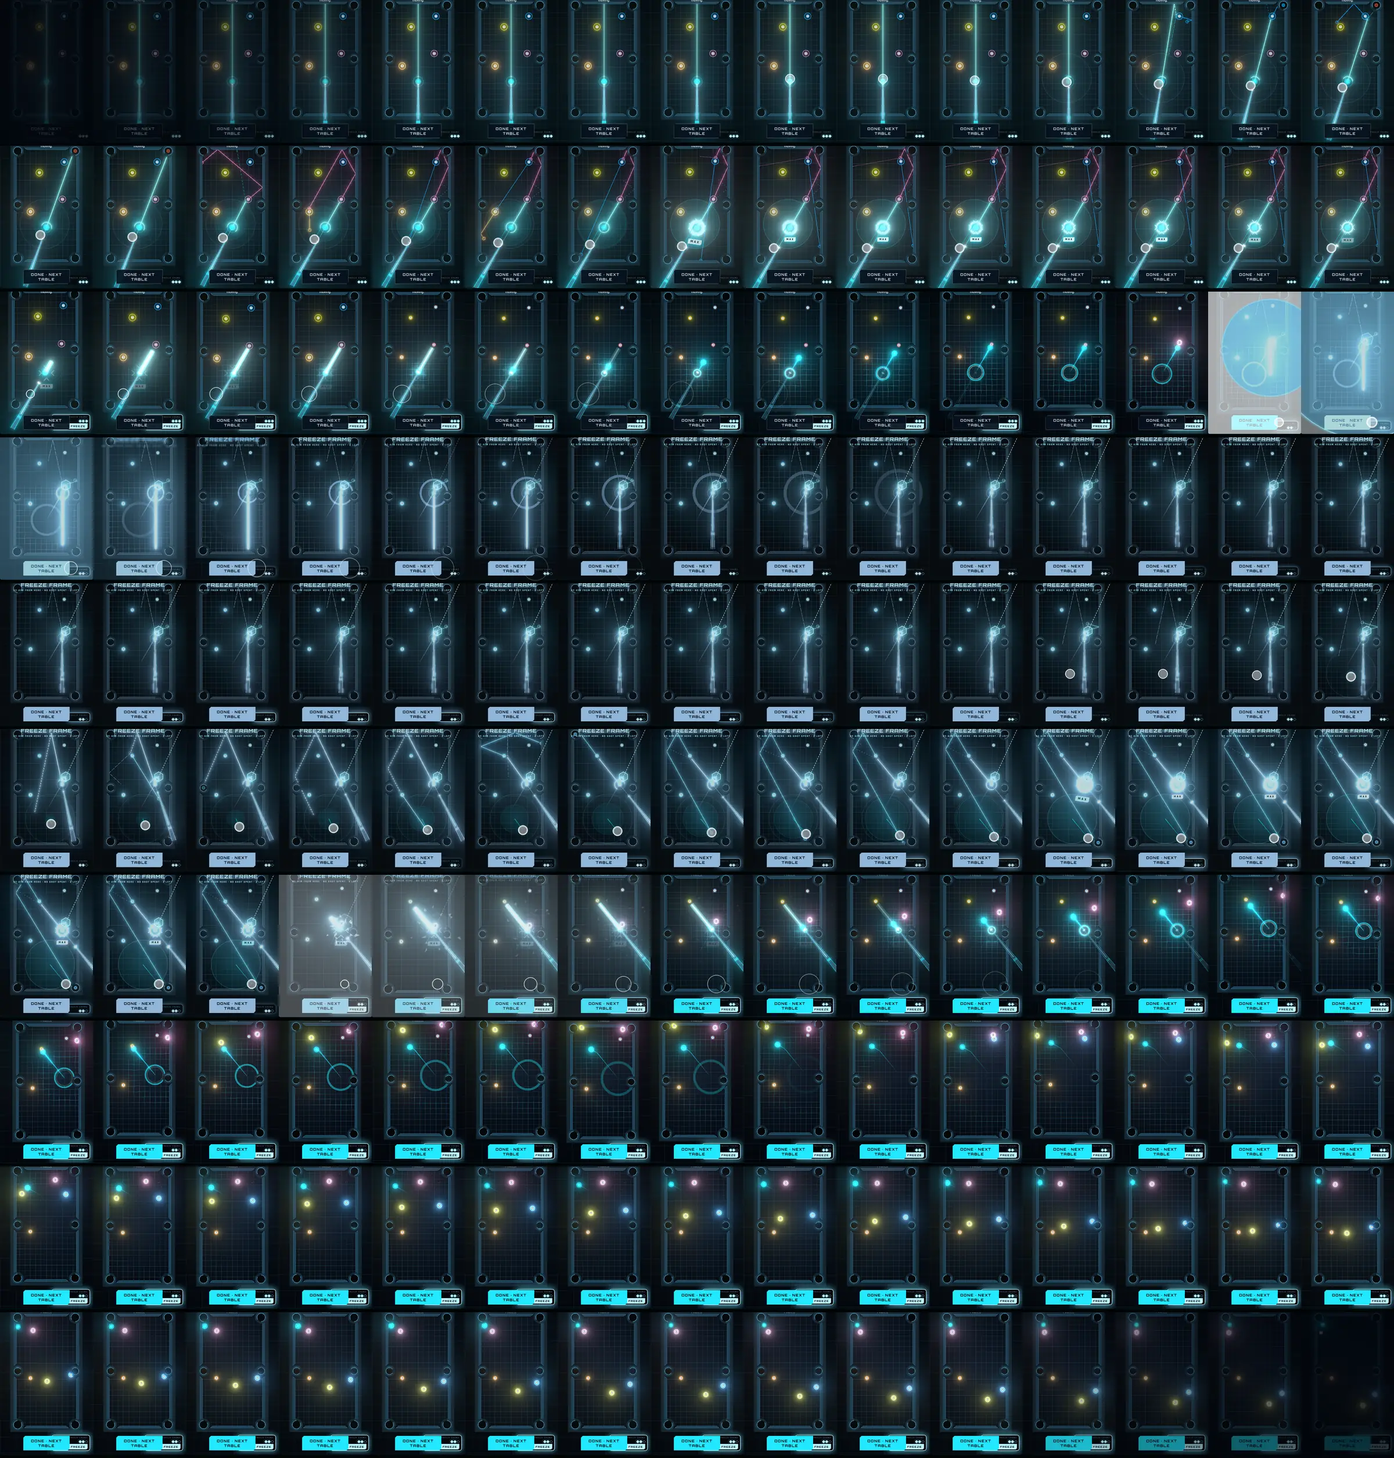
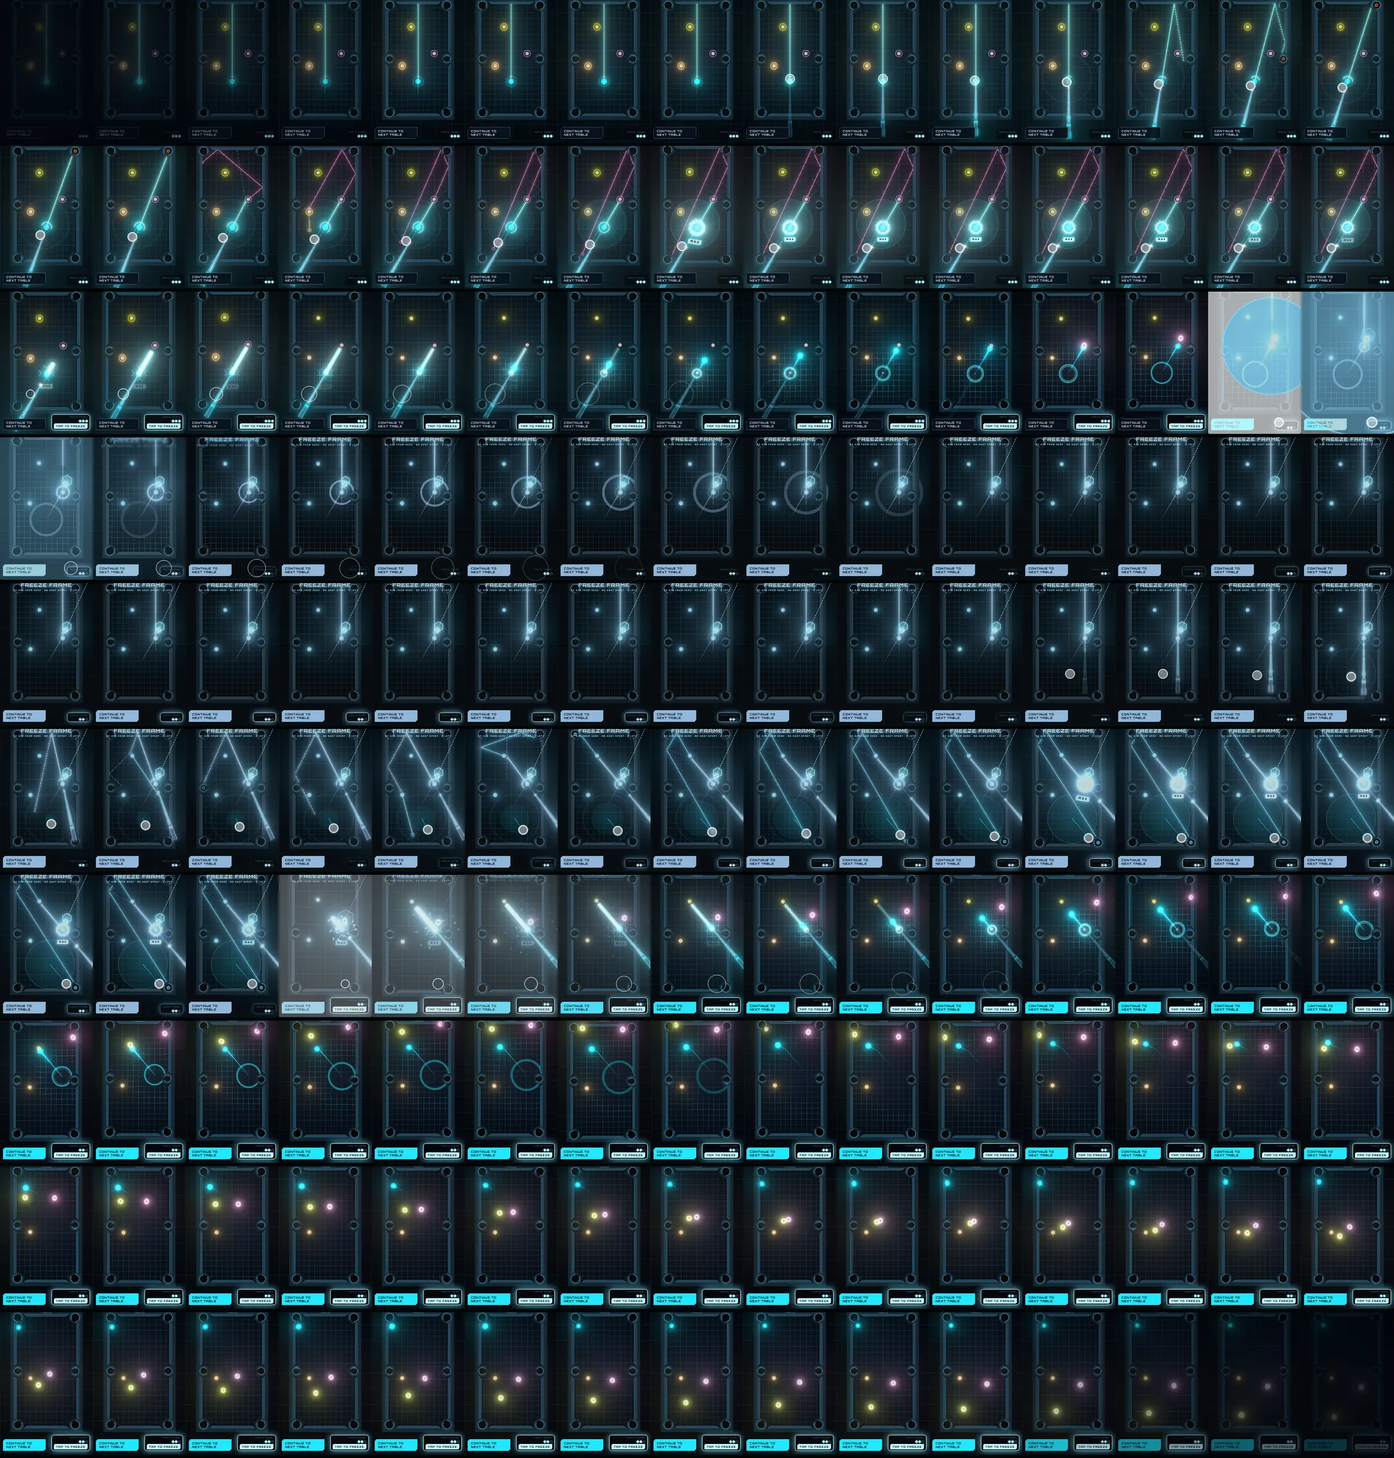
Review round 32: softer shake and no slam shake; the freeze charge pops like a sticker; the stick shows only under the thumb; one teach card and a three-ball practice with Continue clear of FREEZE
Claude-Session: https://claude.ai/code/session_019nZiiKef9e6Jh7cCYCt7Qn

diff --git a/index.html b/index.html
@@ -301,7 +301,7 @@
       .practice-title { font-family: var(--font-display); font-size: clamp(10px, 2.8vmin, 13px); font-weight: 700; letter-spacing: 0.22em; text-transform: uppercase; color: #bff4ff; }
       .practice-line { margin-top: 6px; font-size: clamp(13px, 3.9vmin, 16px); font-weight: 600; line-height: 1.3; color: var(--bone); text-shadow: 0 1px 8px rgba(0, 0, 0, 0.8); }
       .practice-count { margin-top: 4px; min-height: 1.2em; font-size: clamp(9px, 2.4vmin, 11px); letter-spacing: 0.2em; text-transform: uppercase; color: rgba(191, 244, 255, 0.75); }
-      .practice-done { position: absolute; left: 50%; bottom: calc(var(--hud-pad) + 4px); transform: translateX(-50%); pointer-events: auto; padding: 12px 22px 10px; border: 0; font-family: var(--font-display); font-size: clamp(13px, 3.8vmin, 16px); font-weight: 700; letter-spacing: 0.14em; text-transform: uppercase; color: rgba(234, 246, 255, 0.85); background: rgba(8, 18, 30, 0.92); box-shadow: inset 0 0 0 1.5px rgba(234, 246, 255, 0.35); cursor: pointer; clip-path: polygon(8px 0, 100% 0, 100% calc(100% - 8px), calc(100% - 8px) 100%, 0 100%, 0 8px); }
+      .practice-done { position: absolute; left: var(--hud-pad); bottom: calc(var(--hud-pad) + 2px); max-width: 46%; pointer-events: auto; padding: 10px 14px 9px; border: 0; font-family: var(--font-display); font-size: clamp(11px, 3.1vmin, 13px); line-height: 1.25; text-align: left; font-weight: 700; letter-spacing: 0.1em; text-transform: uppercase; color: rgba(234, 246, 255, 0.85); background: rgba(8, 18, 30, 0.92); box-shadow: inset 0 0 0 1.5px rgba(234, 246, 255, 0.35); cursor: pointer; clip-path: polygon(8px 0, 100% 0, 100% calc(100% - 8px), calc(100% - 8px) 100%, 0 100%, 0 8px); }
       .practice-done.ready { color: #02050b; background: var(--ll-you, #22e8ff); box-shadow: 0 0 22px rgba(34, 232, 255, 0.45); }
       .mo-intro-go { display: block; width: 100%; margin-top: 20px; padding: 14px 12px 12px; border: 0; font-family: var(--font-display); font-size: clamp(15px, 4.6vmin, 19px); font-weight: 700; letter-spacing: 0.16em; text-transform: uppercase; color: #02050b; background: var(--ll-you, #22e8ff); box-shadow: 0 0 22px rgba(34, 232, 255, 0.45); cursor: pointer; clip-path: polygon(8px 0, 100% 0, 100% calc(100% - 8px), calc(100% - 8px) 100%, 0 100%, 0 8px); }
       .moments > .mo-intro-fly { position: absolute; inset: auto; margin: 0; z-index: 49; pointer-events: none; }
@@ -572,7 +572,17 @@
       @keyframes freeze-armed { 50% { box-shadow: inset 0 0 0 2px #bff4ff, 0 0 34px rgba(111, 227, 255, 0.95); } }
       /* a diamond a gain just filled */
       .freeze-row .frz.fresh { animation: frz-fresh 0.9s cubic-bezier(0.2, 0.8, 0.2, 1); }
-      @keyframes frz-fresh { 0% { transform: rotate(45deg) scale(2.2); background: #fff; box-shadow: 0 0 20px #bff4ff; } 100% { transform: rotate(45deg) scale(1); } }
+      /* the new diamond pops like a sticker (from review, after Ultrapool) */
+      .freeze-row .frz.fresh { animation-duration: 0.62s; animation-timing-function: linear; }
+      @keyframes frz-fresh {
+        0% { transform: rotate(35deg) scale(0.05); background: #fff; box-shadow: 0 0 20px #bff4ff; }
+        18% { transform: rotate(53deg) scale(1.2); }
+        34% { transform: rotate(38deg) scale(1.9); background: #fff; box-shadow: 0 0 22px #bff4ff; }
+        50% { transform: rotate(50deg) scale(0.9); }
+        66% { transform: rotate(42deg) scale(1.15); }
+        82% { transform: rotate(46.5deg) scale(0.98); }
+        100% { transform: rotate(45deg) scale(1); }
+      }
       @media (prefers-reduced-motion: reduce) { .hud-freeze.armed, .freeze-row .frz.fresh { animation: none; } }
 
       .freeze-row { display: flex; gap: 5px; }
@@ -1351,7 +1361,8 @@
       .mo-skiphide { visibility: hidden !important; }
       .mo-skipfx { position: absolute; inset: auto; z-index: 46; font-family: var(--font-display); font-size: 120px; font-weight: 800; line-height: 1; color: var(--ll-you); text-shadow: 0 0 24px rgba(34, 232, 255, 0.9); pointer-events: none; }
       .mo-act.skip { color: var(--ll-you); background: rgba(2, 5, 11, 0.85); box-shadow: inset 0 0 0 2px var(--ll-you); font-size: 14px; padding: 10px 26px; }
-      .mo-charge { inset: auto; z-index: 31; --plate-bg: #bff4ff; filter: drop-shadow(0 0 12px rgba(111, 227, 255, 0.9)); }
+      .mo-charge { inset: auto; z-index: 31; --plate-bg: #bff4ff; filter: drop-shadow(0 0 16px rgba(111, 227, 255, 1)); overflow: hidden; }
+
       .mo-ring.ice { border-color: #bff4ff; box-shadow: 0 0 18px #6fe3ff, inset 0 0 12px #6fe3ff; }
       .mo-ring.big { width: 140px; height: 140px; border-color: var(--ll-pts); }
 

diff --git a/src/config.js b/src/config.js
@@ -323,7 +323,15 @@ export const TRAJECTORY = {
   stickLength: 15,
   stickWidth: 0.34,
   stickHeight: 1.4,
-  /** The stick's return after a shot or a freeze (from review): a beam of light runs out along it, then it fills in. [beam, fill] seconds. */
+  /**
+   * When the stick is on the table (from review, after Ultrapool): 'drag' —
+   * only while a thumb is down, fading in as you press and out when you let
+   * go; 'rest' — always, beaming back in after every shot (round 31).
+   */
+  stickShow: 'drag',
+  /** 'drag': seconds to fade the stick in or out */
+  stickFade: 0.16,
+  /** 'rest': the stick's return after a shot or a freeze: a beam of light runs out along it, then it fills in. [beam, fill] seconds. */
   stickReveal: [0.22, 0.3],
   stickShaft: 0x335f7c,
   /** The shaft's lit centre streak, and the butt. */
@@ -889,9 +897,9 @@ export const BOONS = {
  * ------------------------------------------------------------------ */
 export const FEEL = {
   shake: {
-    /** Impulse = momentum * scale, clamped. */
-    scale: 0.0075,
-    max: 0.85,
+    /** Impulse = momentum * scale, clamped. Toned down a quarter in review. */
+    scale: 0.0056,
+    max: 0.65,
     /** Exponential decay per second. */
     decay: 7.5,
     frequency: 34
@@ -1466,8 +1474,9 @@ export const TEACH = {
     key: 'lightline-freeze-taught-v1',
     kicker: 'New control',
     name: 'Freeze frame',
-    rule: 'While the balls are still moving, tap FREEZE in the bottom corner. The table stops; drag to aim again from where the cue ball is, and let go to shoot. It costs a charge, not a shot.',
-    stats: ['Try it on a practice table first'],
+    // one line (from review: "the description needs to be MUCH shorter")
+    rule: 'Tap FREEZE while balls are still moving to re-aim and shoot again.',
+    stats: [],
     /** recorded on the practice table with a real drag and tap, a finger drawn on */
     demo: { sheet: './teach/freeze-sheet.webp', cols: 15, rows: 10, frames: 150, fps: 25 },
     demoAlt: 'A finger drags to aim and shoots; while the balls roll it taps FREEZE in the corner; the table freezes; the finger drags again to re-aim the cue ball and lets go.',
@@ -1476,11 +1485,11 @@ export const TEACH = {
       id: 'practice-freeze',
       name: 'Practice',
       spawn: { x: 0, z: 11 },
+      // three balls: sink them all and the practice is over (from review)
       rack: [
         { number: 1, x: -4.5, z: 2 },
         { number: 2, x: 4.5, z: -1.5 },
-        { number: 3, x: -2, z: -9 },
-        { number: 4, x: 5, z: -12 }
+        { number: 3, x: -2, z: -9 }
       ],
       strokes: 99,
       target: 0,
@@ -1490,12 +1499,12 @@ export const TEACH = {
     charges: 3,
     title: 'Practice · Freeze frame',
     lines: {
-      start: 'Shoot, then tap FREEZE (bottom right) while the balls are still moving.',
-      frozen: 'Frozen. Drag to aim again from here, then let go to shoot.',
-      missed: 'Tap FREEZE sooner, while the balls are still moving.',
-      again: 'Nice. Freeze as often as you like, then tap Done.'
+      start: 'Shoot, then tap FREEZE while the balls move.',
+      frozen: 'Frozen. Drag to re-aim, let go to shoot.',
+      missed: 'Tap FREEZE sooner, while they still move.',
+      again: 'Sink all three, or carry on when you’re ready.'
     },
-    done: 'Done · next table',
+    done: 'Continue to next table',
     count: (n) => (n === 1 ? '1 freeze' : `${n} freezes`)
   }
 };

diff --git a/src/main.js b/src/main.js
@@ -2617,8 +2617,9 @@ function practiceFroze() {
 }
 
 /**
- * A practice shot is over. Nothing is spent or scored: the charges refill,
- * the rack comes back once it's nearly gone, and the line says how it went.
+ * A practice shot is over. Nothing is spent or scored and the charges
+ * refill. Sinking all three ends the practice (from review: "finish the
+ * table, or continue to the next table").
  */
 function practiceShotOver() {
   const p = game.practice;
@@ -2627,14 +2628,9 @@ function practiceShotOver() {
   rooms.table.rearmForStroke();
   rules.strokesLeft = rules.mission.strokes;
   rules.freezeCharges = t.charges;
-  const standing = game.enemies.filter((b) => b.alive).length;
-  if (standing < 2) {
-    rooms.teardown();
-    rooms.loadAuthored(t.practice, game.level);
-    rules.beginRoom(game.level, { ...rooms.mission, strictOrder: false });
-    rules.freezeCharges = t.charges;
-    player.placeAt(rooms.layout.spawn.x, spawnZ());
-    input.setHeading(0, -1);
+  if (!game.enemies.some((b) => b.alive)) {
+    finishPractice();
+    return;
   }
   showPractice(p.thisShot ? 'again' : p.freezes ? 'again' : 'missed');
   p.thisShot = 0;
@@ -2648,6 +2644,10 @@ function finishPractice() {
   const then = p.then;
   // the practice layout stays until the next table is built under the cover
   endPractice({ keepLayout: true });
+  // ONE CARD, NOT TWO (from review): the new-control card already said what
+  // the next table is about, so it opens without its own card; its name
+  // still flies to the corner.
+  game.skipIntroCard = true;
   then?.();
 }
 
@@ -2683,6 +2683,11 @@ function showRoomBanner() {
   // Not behind the title screen: the boot racks Table 1 under the menu, and a
   // card there would sit under it with a Play button of its own.
   if (t?.intro && menuOpen) return;
+  if (t?.intro && game.skipIntroCard) {
+    game.skipIntroCard = false;
+    hud.setRule(t.name, true);
+    return;
+  }
   if (t?.intro) {
     hud.setRule(null);
     game.introUp = true;
@@ -2718,6 +2723,7 @@ function showRoomBanner() {
 /** Everything a fresh start clears, minus the room itself. */
 function resetRunState() {
   endPractice();
+  game.skipIntroCard = false;
   boons.reset();
   boons.recompute();
   hud.setBuild(boons.owned);
@@ -3996,7 +4002,9 @@ function refreshPrediction() {
     // mission would refuse, which travels in red. The line is the promise, so
     // the line is where a refusal has to appear.
     legInks: objectPath.map((leg, i) => (fouls.has(i) ? PALETTE.bad : inkOf(leg.ball))),
-    ghosts: game.aimTags
+    ghosts: game.aimTags,
+    // a thumb is down: the stick shows only then (TRAJECTORY.stickShow)
+    held: input.isAiming
   });
 }
 

diff --git a/src/ui/Moments.js b/src/ui/Moments.js
@@ -48,6 +48,25 @@ function absorb(node, onTap) {
   }
 }
 
+/**
+ * The sticker pop (from review, after Ultrapool's "Win!" label): out of a
+ * point a little below where it lands, rising, overshooting, with its tilt
+ * wobbling side to side as it settles. Keyframes for a node positioned by
+ * transform at `p`.
+ */
+function STICKER(p, rise = 26) {
+  const at = (dy, s, r) => ({ transform: `translate(${p.x}px, ${p.y + dy}px) translate(-50%, -50%) scale(${s}) rotate(${r}deg)` });
+  return [
+    { ...at(rise, 0.05, -10), opacity: 0, offset: 0 },
+    { ...at(rise * 0.4, 0.8, 8), opacity: 1, offset: 0.18 },
+    { ...at(-4, 1.18, -7), offset: 0.34 },
+    { ...at(0, 0.94, 5), offset: 0.5 },
+    { ...at(0, 1.05, -3), offset: 0.66 },
+    { ...at(0, 0.99, 1.5), offset: 0.82 },
+    { ...at(0, 1, 0), opacity: 1, offset: 1 }
+  ];
+}
+
 export class Moments {
   /**
    * @param {object} o
@@ -812,11 +831,11 @@ export class Moments {
         plate.style.top = '0px';
         const at = `translate(${p0.x}px, ${p0.y}px) translate(-50%, -50%)`;
         this.audio.scoreNote?.(10, 'points');
-        await this.anim(plate, [
-          { transform: `${at} scale(0.2) rotate(-10deg)`, opacity: 0 },
-          { transform: `${at} scale(1.3) rotate(4deg)`, opacity: 1, offset: 0.6 },
-          { transform: `${at} scale(1) rotate(0deg)`, opacity: 1 }
-        ], { duration: 320, easing: OUT });
+        // IT POPS LIKE A STICKER (from review, after Ultrapool's "Win!"): it
+        // grows out of a point, rising as it goes, and its tilt wobbles a few
+        // times before it settles.
+        await this.anim(plate, STICKER(p0), { duration: 620, easing: 'linear' });
+        this.audio.boonPick?.();
         await this.wait(560);
         const m = this._freezeMeter();
         this.audio.slingshot?.(0.2);

diff --git a/src/entities/Player.js b/src/entities/Player.js
@@ -860,8 +860,10 @@ class AimRenderer {
     if (!this.strike) {
       this.cue.hide();
       this.cueState = null;
-      // the next time it is drawn, it comes back in light
+      // the next time it is drawn, it comes back in light (or fades in under
+      // the thumb)
       this.revealT = 0;
+      this.heldFade = 0;
     }
     this.beamIn.hide();
   }
@@ -1119,7 +1121,18 @@ class AimRenderer {
         this.stick.hide();
         this.stickTip.hide();
         if (!this.strike) {
-          const R = this._reveal(frameDt);
+          let R;
+          if ((TRAJECTORY.stickShow || 'rest') === 'drag') {
+            // THE STICK IS UNDER THE THUMB (from review, after Ultrapool): it
+            // fades in as you press and out when you let go without shooting.
+            const step = Math.min(frameDt, 1 / 30) / (TRAJECTORY.stickFade || 0.16);
+            const want = context.held ? 1 : 0;
+            const f = this.heldFade ?? 0;
+            this.heldFade = want > f ? Math.min(1, f + step) : Math.max(0, f - step);
+            R = { beam: 0, glow: 0, stick: this.heldFade * this.heldFade * (3 - 2 * this.heldFade) };
+          } else {
+            R = this._reveal(frameDt);
+          }
           const tx = player.x - ux * gap;
           const tz = player.z - uz * gap;
           if (R.stick > 0) {

diff --git a/src/ui/ScoreFeed.js b/src/ui/ScoreFeed.js
@@ -592,7 +592,7 @@ export class ScoreFeed {
         run: () => {
           this.root.classList.add('slam');
           this.audio.scoreSlam?.();
-          this.engine.shake(140);
+          // no shake here (from review): the slam is in the boxes, not the table
         }
       });
       steps.push({

diff --git a/docs/DESIGN_BIBLE.md b/docs/DESIGN_BIBLE.md
@@ -46,6 +46,8 @@ If an action or a reward does not get a reaction the player can see, hear and
 6. **Every moment earns a reaction.** From its cause, one at a time, never over
    the aim preview. Full power, a wall, a pot, a lock, a slam, a scratch, a
    freeze, a cleared table: each gets light, sound and, where possible, a buzz.
+   Camera shake is kept light (`FEEL.shake`, toned down a quarter in review),
+   and the points × Mult slam in the boxes does not shake the table at all.
 7. **The preview never lies.** The drawn line is the shot the table plays
    (`npm run aim`). Twists may show less; they may never show something false.
    (This also binds puzzle design: see `docs/PUZZLE_RAMP.md`.)
@@ -57,8 +59,8 @@ If an action or a reward does not get a reaction the player can see, hear and
    flash on the part that changed, a sound). The player always sees what
    happened and why. A counter that jumps on its own is a bug. Moments that
    matter mid-roll slow the table while they play (`ScoreFeed.aside`). The same
-   goes for things that appear: the cue stick never pops back in, it beams in
-   (§8.1).
+   goes for things that appear: the cue stick never pops in, it fades in under
+   the thumb (§8.1).
 
 ---
 
@@ -253,7 +255,7 @@ until one is picked; the pick is then recorded here and the other deleted.
 | Power | **Cue** style (default). A full-length cue stick runs back off the table past the rail, tapered, with cyan lit edges, a lit centre streak, butt bands and a two-layer shadow on the felt and rail. It slides back 1:1 with the thumb (5.2 units over a full draw). The ring around the ball fills both ways as power builds. | `CueStick`, `_ring` |
 | Full power | The ring closes and flashes, a burst of light leaves the ball, a MAX POWER badge flies out away from the aim line, a two-note riser plays, the screen jolts and the phone buzzes (18 ms). One threshold: `TRAJECTORY.fullDraw`. | `noteAimPower`, `maxPowerBadge` |
 | Strike | The table holds (60 ms) while the stick snaps into the ball, accelerating, with a light smear over the ground it covers. It follows through past the ball, then eases back as it fades. The ball leaves when it is hit, not when the thumb lets go. | `AimRenderer.tick`, `onRelease` |
-| Return | The stick never pops back (from review). Whenever it reappears (after a shot, after a freeze, at the start of a table) a beam of light shoots out from the cue ball along where it will lie (0.22 s), then the stick fills in along it (0.3 s). `TRAJECTORY.stickReveal`. | `AimRenderer._reveal`, `beamIn` |
+| Showing | **Only under the thumb** (from review, after Ultrapool; `TRAJECTORY.stickShow` 'drag'). At rest there is no stick, only the resting aim line. It fades in as a thumb goes down (`stickFade` 0.16 s) and out if the thumb lets go without shooting; a shot plays the strike and fades it as before. The other setting, 'rest', keeps the stick on the table and beams it back in after every shot (a line of light along it, then it fills in; `stickReveal`). | `AimRenderer` (`heldFade`, `_reveal`) |
 
 **On trial (Settings → Stick, Full power, Strike; `TRAJECTORY.stickLook`,
 `maxStyle`, `strikeStyle`).** They mix freely.
@@ -284,7 +286,7 @@ the balls are moving and time stops. The button is the freeze meter itself,
 bottom right under the thumb (from review): while a freeze is possible (the
 balls are rolling and a whole charge is in hand) it lights ice-blue, pulses
 and says TAP TO FREEZE. A tap anywhere else only hurries the numbers along, so
-a freeze is never spent by accident. On the frozen table the stick beams in
+a freeze is never spent by accident. On the frozen table a drag brings the stick in
 at the stopped cue ball at once (§8.1), and you drag to re-aim it as usual. Your cue ball halts where it is and you re-aim it from there. Every
 other ball keeps the speed it had and carries on when you release. It costs a
 charge, not a shot. "Freeze frame" is the mechanic's name everywhere the player
@@ -304,17 +306,19 @@ collided with the corner pockets.
 
 Before the first table that needs it (Table 7's ice), or as soon as the run has
 it in hand another way (bought in the shop, Ice Box, Frostbite), the game
-shows a **card** with the control working and **Tap to practise**. The loop
-is recorded on the practice table with real input (a drag to aim and shoot, a
-tap on FREEZE, the stick beaming in on the frozen table, a drag to re-aim, the
-release) with a finger drawn over every touch, and plays from a sprite sheet
-stepped on the frame clock (`public/teach/freeze-sheet.webp`, 150 frames at
-25 fps), so it runs evenly. Then a **practice table**:
-unlimited shots, charges refilled after every shot, nothing scored, the rack
-put back when it runs low. A line at the top says what to try (shoot, then
-tap while it moves; frozen, aim again; freeze as often as you like) and counts
-the freezes. **Done · next table** is always there, and lights up once you've
-frozen once; it goes on to the real table. Shown once per device
+shows **one card** (from review: one screen, not two): the control working in
+a loop, one line ("Tap FREEZE while balls are still moving to re-aim and shoot
+again.") and **Tap to practise**. The loop is recorded on the practice table
+with real input (a drag to aim and shoot, a tap on FREEZE, a drag to re-aim on
+the frozen table, the release) with a finger drawn over every touch, and plays
+from a sprite sheet stepped on the frame clock
+(`public/teach/freeze-sheet.webp`, 150 frames at 25 fps), so it runs evenly.
+Then a **practice table** of three balls: unlimited shots, charges refilled
+after every shot, nothing scored. A short line at the top says what to try and
+counts the freezes. It ends either way you like: **sink all three**, or tap
+**Continue to next table** (bottom left, clear of FREEZE; it lights up once
+you've frozen once). The next table then opens without its own card, since
+the new-control card has just covered it; its name still flies to the corner. Shown once per device
 (`TEACH.freeze.key`). Freeze is the only control so far; other upgrades only
 pay more, and their plates show it the first time. (`TEACH` in config.js.)
 
@@ -330,8 +334,10 @@ earned only by shots that pay (`RULES.freeze`):
 | The Ice Box upgrade, at the start of every table | +½ |
 
 Each earned half is **telegraphed** (law 8, from review): once the shot's
-tally has flown to YOUR SCORE, an ice plate rises where the tally was ("+½ ·
-Freeze · Combination"), holds, and arcs into the meter. The meter keeps its
+tally has flown to YOUR SCORE, an ice plate pops where the tally was ("+½ ·
+Freeze · Combination") like a sticker (after Ultrapool's "Win!": out of a
+point, rising, its tilt wobbling as it settles; `STICKER` in Moments.js),
+holds, and arcs into the meter, where the new diamond pops the same way. The meter keeps its
 old value until the plate lands (`game.freezeHold`), then the diamond it
 filled flashes in with an ice ring and a chime. (`MOMENTS.chargePlates`; the
 plate used to pop over the table on top of the tally, which is why it now
